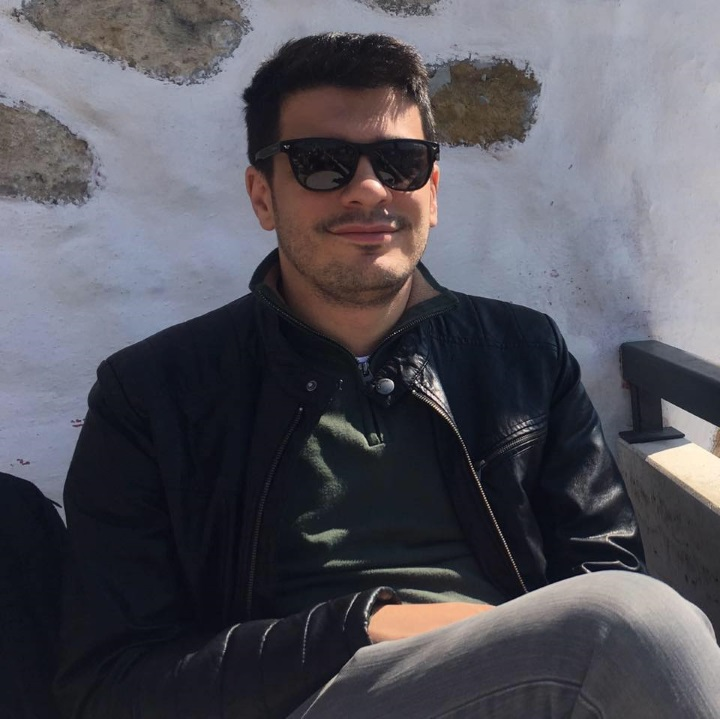
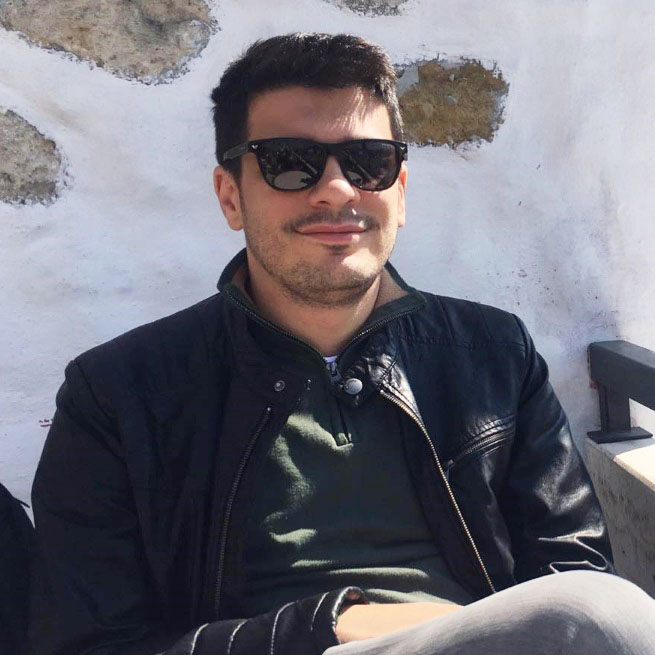
crop + brightness fix for egzon's photo, occupation also

diff --git a/js/data.js b/js/data.js
@@ -79,7 +79,7 @@
     }, {
         img: "img/egzon_zeneli.jpg",
         name: 'Egzon Zeneli',
-        occupation: '',
+        occupation: 'Chief Development Officer at Solaborate',
         'img-id': 8,
         text: 'Egzon Zeneli',
         p1: ``,
